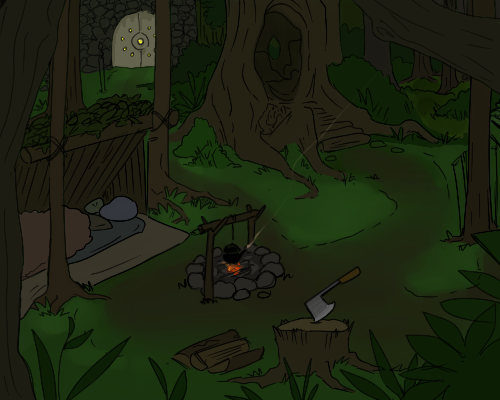
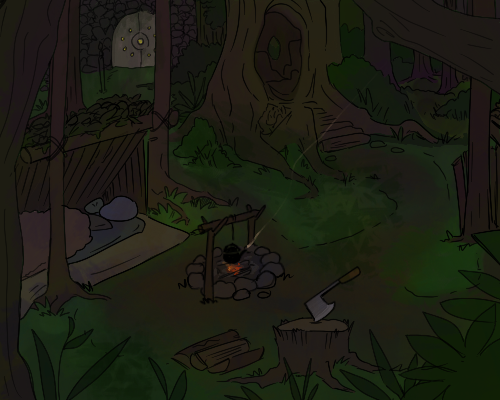
IT WORKS ITS ALIIIIIIIIVE

diff --git a/basecamp.js b/basecamp.js
@@ -9,13 +9,6 @@ let backbutton = document.getElementById('option1');
   }
 
 
-function block() {
-    let div = document.getElementById('char1');
-    if (div.style.display !== 'none') {
-      div.style.display = 'block';
-    }
-  
-  };
 
   function option1(opt1){
     let option1 = document.getElementById('option1');
@@ -67,49 +60,171 @@ function block() {
   }
 
   
-function onload(){
-  let shroomed = document.getElementbyid('shroomie1');
-  let shroomkey = window.localStorage.key(1);
-  let door = document.getElementbyId('doordiv');
+// function onload(){
+//   let shroomed = document.getElementbyid('shroomie1');
+//   let shroomkey = window.localStorage.key(1);
+//   let door = document.getElementbyId('doordiv');
 
-  if (shroomkey=1){
-    doordiv.style.display='block';
-  }
-  if (shroomed.style.display = 'inline-block'){
-      window.localStorage.setitem('shroomkey','Hungry Shroomie');
-  }
-}
-
-
-
-function onload(){
-  let div = document.getElementbyid('shroomie1');
-  let shroomkey = window.localStorage.key(1);
-  if (div.style.display = 'inline-block'){
-      window.localStorage.setitem('shroomkey','Hungry Shroomie');
-
-  }
-}
+//   if (shroomkey=1){
+//     doordiv.style.display='block';
+//   }
+//   if (shroomed.style.display = 'inline-block'){
+//       window.localStorage.setitem('shroomkey','Hungry Shroomie');
+//   }
+// }
 
 
 
+
+
+
+
+
+
+
+
+// function onload(){
+//   let div = document.getElementbyid('shroomie1');
+//   let shroomkey = window.localStorage.key(1);
+//   if (div.style.display = 'inline-block'){
+//       window.localStorage.setitem('shroomkey','Hungry Shroomie');
+
+//   }
+// }
 
 function shroomieGet(){
   let div = document.getElementById('shroomie1');
-  let shroomkey = window.localStorage.key(1);
-  
+  let shroomkey = window.sessionStorage.setItem('shroomkey', 1);
+
+
+
   document.getElementById("NarratorText").innerHTML="You found one!";
   
       if (div.style.display = 'none'){
           div.style.display = 'inline-block';
       }
       alert("you got a shroomie!");
-  
-      if(div.style.display = 'inline-block'){
-          window.localStorage.setItem('shroomie1', 'shroomie');
-      }
+      
       
   }
   
+  function shroomieCheck(){
+  let shroomie1 = document.getElementById('shroomie1');
+  let shroomkey = window.sessionStorage.getItem('shroomkey',1);
+
+  if (shroomkey == 1){
+    shroomie1.style.display='block';
+  }
+
   
+
+}
+
   
+  // function shroomieGet(){
+  //   let ShroomieArray = [1, 2, 3, 4, 5, 6, 7, 8, 9];
+  //   let ShroomiesGot = ShroomieArray.length;
+  //   let ShroomieHun = document.getelementbyid('shroomiehun.png');
+
+  //   for(let i=0; i < length; i++){
+  //     ShroomieArray[i]+=1 
+  //   }
+    
+  //   if(ShroomiesGot = )
+
+
+  // }
+
+  // function bgChange(){
+
+  // }
+
+  // sessionStorage.getItem('key');
+  // if (window.sessionStorage.key='hun'){
+  //   ShroomieHun.style.display='block';
+  // }
+
+
+
+
+
+// function shroomieGet(shroomieCheck){
+//   let shroomie1 = document.getElementById('shroomie1');
+//   let shroomkey = sessionStorage.getItem('shroomkey');
+
+//   window.sessionStorage.setItem=('shroomkey', 1);
+
+//   if (shroomkey=1){
+//     shroomie1.style.display='block';
+//   }
+  
+//   document.getElementById("NarratorText").innerHTML="You found one!";
+//   alert("you got a shroomie!");
+
+//       shroomieCheck()
+  
+//     }
+
+    // export default function useToken() {
+    //   const getToken = () => {
+    //     const tokenString = sessionStorage.getItem('token');
+    //     const userToken = JSON.parse(tokenString);
+    //     return userToken?.token;
+    //   };
+   
+    //   const [token, setToken] = useState(getToken());
+   
+    //   const saveToken = (userToken) => {
+    //     sessionStorage.setItem('token', JSON.stringify(userToken));
+    //     setToken(userToken.token);
+    //   };
+   
+   
+    //   return {
+    //     setToken: saveToken,
+    //     token,
+    //   };
+    // }
+
+
+
+
+
+
+
+
+
+
+
+
+
+
+
+
+
+
+
+
+
+
+  
+
+//   function init() {
+//     let storedMode = sessionStorage.getItem('mode');
+//     if (!storedMode) {
+//         storedMode = DEFAULT_MODE;
+//         sessionStorage.setItem('mode', DEFAULT_MODE);
+//     }
+//     setMode(storedMode);
+// }
+
+// function setMode(mode = DEFAULT_MODE) {
+//     if (mode === DARK_MODE) {
+//         btn.textContent = SUN;
+//         document.body.classList.add(DARK_MODE);
+
+//     } else if (mode === LIGHT_MODE) {
+//         btn.textContent = MOON;
+//         document.body.classList.remove(DARK_MODE);
+//     }
+// }

diff --git a/camp1.css b/camp1.css
@@ -82,22 +82,27 @@ body{
   display:none;
 }
 
+
+.NarratorBox{
+  position:absolute;
+  top: 220px;
+  right: 40px;
+  bottom: 100px;
+  left: 50px;
+  display:block;
+}
+
 .NarratorText{
-    position:absolute;
-    display:block;
-    top: 250px;
-    left: 50px;
-    align-items: center;
-    color: Pink; 
-    font-family: "Courier";
-    font-size: 12px;
-    margin: 10px 0 0 10px;
-    white-space: nowrap;
-    padding-top: 30px;
-    overflow: hidden;
-    width: 40em;
-    height: 20em;
-    animation: type 3s steps(60, end); 
+  color: Pink; 
+  font-family: "Courier";
+  font-size: 12px;
+  margin: 10px 0 0 10px;
+  white-space: nowrap;
+  overflow: auto;
+  padding-top: 30px;
+  width: 40em;
+  height: 20em;
+  animation: type 3s steps(60, end); 
 }
  
 @keyframes type{ 

diff --git a/camp1.html b/camp1.html
@@ -14,8 +14,12 @@
             <div id="shroomie0" class="shroomie0" alt="what is this..?"></div>
             <img src="./assets/char1.PNG" id="char1" alt="character1">
 
+<div id="NarratorBox" class="NarratorBox">
+    <div id="NarratorText" class="NarratorText">
+        <p>We came through that big door over there, but ever since our gods disappeared, we haven't been able to get back....</p>
+    </div>
+</div>
 
-<div id="NarratorText" class="NarratorText"></div>
 
 <div id="optionBoxes">
     <div id="option1" class="optionBoxes optionBox1">

diff --git a/basecamp.css b/basecamp.css
@@ -26,13 +26,15 @@ body{
  }
 
   #char1{
-    position:static;
-    display:block;
+    position:absolute;
     z-index: 6;
     display: none;
-    left:200px;
-    top:250px;
+    top: 95px;
+    right: 200px;
+    bottom:210px;
+    left:300px;
     height:200px;
+    opacity: 80%;
   }
 
 .optionBoxes{
@@ -86,7 +88,8 @@ body{
 .NarratorText{
     position:absolute;
     display:block;
-    top: 200px;
+    top: 250px;
+    left: 55px;
     align-items: center;
     color: Pink; 
     font-family: "Courier";

diff --git a/basecamp.html b/basecamp.html
@@ -8,10 +8,10 @@
     <link rel="stylesheet" href="basecamp.css">
 
 </head>
-<body onload="onload()">
+<body onload="shroomieCheck()">
     <script src="basecamp.js"></script>
     <div id="bg" class="background">
-        <img src="./assets/char1.PNG" id="char1" alt="character1">
+        <img src="./assets/char1_oh.PNG" id="char1" alt="character1">
         <div id="chardiv" alt="what is this..?">
             <button onclick="block()">test</button>
         </div>

diff --git a/basecamp2.html b/basecamp2.html
@@ -4,11 +4,11 @@
     <meta charset="UTF-8">
     <meta http-equiv="X-UA-Compatible" content="IE=edge">
     <meta name="viewport" content="width=device-width, initial-scale=1.0">
-    <title>It's a basecamp?</title>
+    <title>It's a basecamp</title>
     <link rel="stylesheet" href="basecamp2.css">
 
 </head>
-<body onload="onload()">
+<body onload="shroomieCheck()">
     <script src="basecamp.js"></script>
         <div id="invContainer"></div>
 

diff --git a/campfire.css b/campfire.css
@@ -4,7 +4,7 @@ body{
 .background{
     display:static;
     height:500px;
-    background-image: url(/assets/IMG_1372.PNG);
+    background-image: url(/assets/campfire.PNG);
     background-repeat:no-repeat;
     background-color: black;
   }
@@ -29,7 +29,7 @@ body{
     display: none;
     height: 50px;
     width: 50px;
-    background-image:url(/assets/HunShroomie.PNG);
+    background-image:url(/assets/ShroomHun.PNG);
  }
 
 

diff --git a/woodsFront.css b/woodsFront.css
@@ -82,6 +82,20 @@ body{
     left:300px;
   }
 
+.narratorBox{
+    position: absolute;
+    z-index: 4;
+    display: block;
+    top: 330px;
+    right: 75px;
+    left: 75px;
+    height: 50px;
+    justify-content:center;
+    align-items:center;
+    border-radius:10px;
+    background-color: black;
+    opacity: 50%;
+}
 
 .NarratorText{
     position:absolute;

diff --git a/basecamp2.css b/basecamp2.css
@@ -109,7 +109,7 @@ button{
   display: none;
   height: 50px;
   width: 50px;
-  background-image:url(/assets/HunShroomie.PNG);
+  background-image:url(/assets/ShroomHun.PNG);
 }
 
 #doordiv{

diff --git a/campfire.html b/campfire.html
@@ -8,7 +8,7 @@
     <link rel="stylesheet" href="campfire.css">
 
 </head>
-<body onload="onload()">
+<body onload="shroomieCheck()">
     <script src="basecamp.js"></script>
 
 
